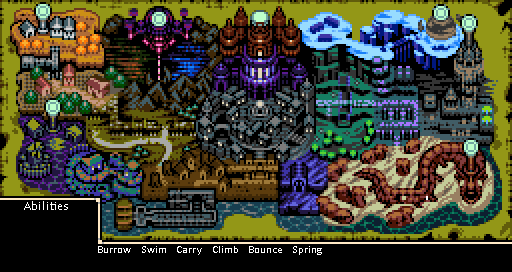
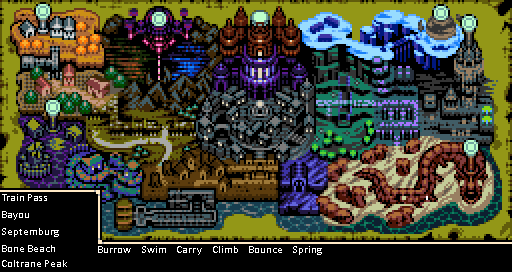
Fix typo Fix Bone Beach Maps Add Train Passes to overview fix some check not being excluded Fix logic issue with Evra and Trinket bazaar

Changed region(s): [[0.0, 0.6765, 0.2188, 1.0]]

diff --git a/worlds/mina_the_hollower/data/locations/areas/ossex.py b/worlds/mina_the_hollower/data/locations/areas/ossex.py
@@ -6,7 +6,7 @@ from ...items import Weapons, PlayerUpgrades, Sidearms, PermanentUpgrades, BoneU
         SingleKears, Wallets
 from ...items.abilities import ABILITY_NAMES
 from ...rules.ability_rules import CanBurrow, CanBounce, HasVialsCount, CanClimb, \
-        HasReachingSideArm, HasFishingRod, CanCarry, HasBeastiumTransform, HasTrinket, CanSwim
+        HasReachingSideArm, HasFishingRod, CanCarry, HasBeastiumTransform, HasTrinket, CanSwim, PowerLevelThreshold
 from ...rules.state_rules import HasAllKears, HasTrinketCount, HasKear, RepairedGeneratorCount, ShopPrice
 from ...rules.movement_rules import CanJumpTiles
 
@@ -18,7 +18,7 @@ collectable_locations: dict[str, LocationData] = {
         "OS Courtyard East Deboning Wand" : LocationData(161, "Ossex Courtyard East", ShopPrice(cost=1000), item_rule=lambda item: item.name != Wallets.WALLET_SIZE.value),
         "OS Courtyard West Weapon Upgrade" : LocationData(163, "Ossex Courtyard West Chest", HasVialsCount(count=5)),
         "OS Courtyard Garden Trinket" : LocationData(171, "Ossex Courtyard East Manor Side"),
-        "OS Evra's Rest Health Rose" : LocationData(352, "Ossex Goddred's Grave End"),
+        "OS Evra's Rest Health Rose" : LocationData(352, "Ossex Goddred's Grave End", PowerLevelThreshold(power=50)),
         "OS Couple's Quarter Chest" : LocationData(165, "Ossex Couple's Quarter", CanBurrow() | HasReachingSideArm(), item_rule=lambda item: item.name != Wallets.WALLET_SIZE.value),
 
         "OS Hollower's Guild Back Room Kear Chest" : LocationData(168, "Ossex Guild Back Room"),
@@ -82,11 +82,11 @@ collectable_locations: dict[str, LocationData] = {
         "OS Trinket Bazaar Plasma Funnel" : LocationData(179, "Ossex Trinket Bazaar", ShopPrice(cost=700)),
         "OS Trinket Bazaar Seismic Belt" : LocationData(180, "Ossex Trinket Bazaar", ShopPrice(cost=700)),
         "OS Trinket Bazaar Brisk Brew" : LocationData(181, "Ossex Trinket Bazaar", ShopPrice(cost=700)),
-        "OS Trinket Bazaar Intrevenous Vial" : LocationData(182, "Ossex Trinket Bazaar", ShopPrice(cost=1250)),
-        "OS Trinket Bazaar Shock Flint" : LocationData(183, "Ossex Trinket Bazaar", ShopPrice(cost=1250)),
-        "OS Trinket Bazaar Uranium Bracelet" : LocationData(25, "Ossex Trinket Bazaar", HasTrinketCount(count=15) & ShopPrice(cost=2000)),
-        "OS Trinket Bazaar Bubble Ring" : LocationData(184, "Ossex Trinket Bazaar", HasTrinketCount(count=15) & ShopPrice(cost=1500)),
-        "OS Trinket Bazaar Counter Vial" : LocationData(185, "Ossex Trinket Bazaar", HasTrinketCount(count=15) & ShopPrice(cost=1500)),
+        "OS Trinket Bazaar Intrevenous Vial" : LocationData(182, "Ossex Trinket Bazaar", ShopPrice(cost=1250) & HasTrinketCount(count=5)),
+        "OS Trinket Bazaar Shock Flint" : LocationData(183, "Ossex Trinket Bazaar", ShopPrice(cost=1250) & HasTrinketCount(count=5)),
+        "OS Trinket Bazaar Uranium Bracelet" : LocationData(25, "Ossex Trinket Bazaar", HasTrinketCount(count=10) & ShopPrice(cost=2000)),
+        "OS Trinket Bazaar Bubble Ring" : LocationData(184, "Ossex Trinket Bazaar", HasTrinketCount(count=10) & ShopPrice(cost=1500)),
+        "OS Trinket Bazaar Counter Vial" : LocationData(185, "Ossex Trinket Bazaar", HasTrinketCount(count=20) & ShopPrice(cost=1500)),
         "OS Train Private Cabin Chest" : LocationData(360, "Ossex Train Private Cabin Left", CanBurrow() & HasKear(kear=SingleKears.OSSEX_TRAIN_KEAR_1.value)), #needs burrow, 1 kear,
         "OS Train Private Cabin Safety Shroud" : LocationData(357, "Ossex Train Private Cabin Left", CanBurrow() & HasKear(kear=SingleKears.OSSEX_TRAIN_KEAR_1.value) & HasKear(kear=SingleKears.OSSEX_TRAIN_KEAR_2.value) ),
     # "OS Forgotten Cave Disturbing Dance" : LocationData(351, "Ossex City Center Main", CanBurrow() & CanBounce() & CanClimb()),

diff --git a/worlds/mina_the_hollower/locations.py b/worlds/mina_the_hollower/locations.py
@@ -1,7 +1,7 @@
 from BaseClasses import Region, Location, ItemClassification, LocationProgressType
 from rule_builder.rules import Has
 from .data.events import RADIANT_MANOR_DATA
-from .data.items import BoneFiller, Abilities
+from .data.items import BoneFiller, Abilities, PermanentUpgrades
 from .data.locations import all_regions, all_region_transitions, all_internal_region_connections, \
     all_permanent_locations, dungeon_locations
 from .data import LocationData, RegionConnection, Transition, matching_transition_types
@@ -71,6 +71,23 @@ def create_regions(world: "MinaTheHollowerWorld", regions: set[str]):
         create_location(world, "Climb", LocationData(None, "Climb Region", lambda _: False))
         create_location(world, "Bounce", LocationData(None, "Bounce Region", lambda _: False))
         create_location(world, "Spring", LocationData(None, "Spring Region", lambda _: False))
+
+        world.create_entrance(menu, create_region(world, "Train Pass Region"), name="Menu To Train Pass",
+                              rule=Has(PermanentUpgrades.TRAIN_PASS.value))
+        world.create_entrance(menu, create_region(world, "Bayou Ticket Region"), name="Menu To Bayou Ticket",
+                              rule=Has(PermanentUpgrades.BAYOU_TICKET.value))
+        world.create_entrance(menu, create_region(world, "Septemburg Ticket Region"), name="Menu To Septemburg Ticket",
+                              rule=Has(PermanentUpgrades.SEPTEMBURG_TICKET.value))
+        world.create_entrance(menu, create_region(world, "Bone Beach Ticket Region"), name="Menu To Bone Beach Ticket",
+                              rule=Has(PermanentUpgrades.BONE_BEACH_TICKET.value))
+        world.create_entrance(menu, create_region(world, "Coltrane Peak Ticket Region"), name="Menu To Coltrane Peak Ticket",
+                              rule=Has(PermanentUpgrades.COLTRANE_PEAK_TICKET.value))
+
+        create_location(world, "Train Pass", LocationData(None, "Train Pass Region", lambda _: False))
+        create_location(world, "Bayou Ticket", LocationData(None, "Bayou Ticket Region", lambda _: False))
+        create_location(world, "Septemburg Ticket", LocationData(None, "Septemburg Ticket Region", lambda _: False))
+        create_location(world, "Bone Beach Ticket", LocationData(None, "Bone Beach Ticket Region", lambda _: False))
+        create_location(world, "Coltrane Peak Ticket", LocationData(None, "Coltrane Peak Ticket Region", lambda _: False))
 
 
 

diff --git a/worlds/mina_the_hollower/tracker/__init__.py b/worlds/mina_the_hollower/tracker/__init__.py
@@ -94,6 +94,9 @@ cave_eastern_heath: dict[int, int] = {
     19: 0,
     20: 0
 }
+eh_chop: dict[int, int] = {
+    21:0,
+}
 under_eastern_heath: dict[int, int] = {
     23:0,
     18:0,
@@ -325,6 +328,7 @@ mourners_mile: dict[int, int] = {
 }
 mm_tomb: dict[int, int] = {
     13:0,
+    15:0,
 }
 mm_cave: dict[int, int] = {
     6:0,
@@ -551,6 +555,23 @@ bb_shortcut: dict[int, int] = {
     8:1,
     7:1
 }
+bb_trail_2: dict[int, int] = {
+    0:0,
+}
+bb_beach: dict[int, int] = {
+    1:0,
+}
+bb_ocean: dict[int, int] = {
+    1:0,
+    3:0,
+}
+bb_cliff: dict[int, int] = {
+    2:0,
+    20:4,
+}
+bb_gen: dict[int, int] = {
+    0:0
+}
 bb_trail: dict[int, int] = {
     16:0,
     5:0,
@@ -565,6 +586,9 @@ bb_trail: dict[int, int] = {
 }
 bb_tent: dict[int, int] = {
     19:0,
+}
+bb_mirror: dict[int, int] = {
+    13:0,
 }
 bb_cave: dict[int, int] = {
     10:0,
@@ -582,6 +606,7 @@ bb_back: dict[int, int] = {
 }
 
 bb_maw: dict[int, int] = {
+    0:0,
     29:0,
     5:0,
 }
@@ -854,6 +879,7 @@ area_id_to_map: dict[int, MapData] = {
     61: MapData(cave_network, 11),
     92: MapData(mining_passage, 12),
     54: MapData(eastern_heath, 13),
+    56: MapData(eh_chop, 16),
     53: MapData(under_eastern_heath, 16),
     52: MapData(cave_eastern_heath, 16),
     144: MapData(balcony, 17),
@@ -945,10 +971,16 @@ area_id_to_map: dict[int, MapData] = {
     39: MapData(sf_junction, 75),
     97: MapData(sf_mine, 76),
     37: MapData(bb_shortcut, 77),
-    24: MapData(bb_trail, 78),
+    24: MapData(bb_trail, 77),
+    40: MapData(bb_gen, 77),
+    25: MapData(bb_trail_2, 77),
+    26: MapData(bb_beach, 79),
+    27: MapData(bb_ocean, 80),
+    23: MapData(bb_cliff, 79),
     36: MapData(bb_back, 78),
     34: MapData(bb_tent, 81),
     28: MapData(bb_cave, 81),
+    38: MapData(bb_mirror, 81),
     29: MapData(bb_maw, 82),
     35: MapData(bb_arena, 82),
     30: MapData(bb_tract, 82),

diff --git a/worlds/mina_the_hollower/data/locations/areas/coltrane_peak.py b/worlds/mina_the_hollower/data/locations/areas/coltrane_peak.py
@@ -1,8 +1,10 @@
 from BaseClasses import LocationProgressType
 from rule_builder.rules import Has, CanReachLocation
 from ... import RegionConnection, Transition, LocationData
+from ...items import SingleKears, PermanentUpgrades
 from ...rules.ability_rules import CanBurrow, CanBounce, CanClimb, CanCarry, HasFishingRod
 from ...rules.movement_rules import CanJumpTiles
+from ...rules.state_rules import HasKear
 
 collectable_locations: dict[str, LocationData] = {
     "CTP Frigid Station Missed Train Chest": LocationData(113, "Coltrane Peak Station Tracks"),
@@ -21,6 +23,8 @@ collectable_locations: dict[str, LocationData] = {
     "CTP Maelstrom Locomotress Health Rose": LocationData(124, "Coltrane Peak Agnes Express Arena"),
     "CTP Frozen Pass Chest" : LocationData(232, "Coltrane Peak Frozen Pass"),
     "CTP Frozen Pass IceBlock Trinket" : LocationData(237, "Coltrane Peak Frozen Pass Bottom"),
+    "WW Balcony Snowball Fight Trinket" : LocationData(242, "Western Wilds Balcony", HasKear(kear=SingleKears.WESTERN_WILDS_BALCONY_KEAR.value) & CanBurrow() & CanCarry() & CanClimb()
+                                                           & Has(PermanentUpgrades.TRAIN_PASS.value) & Has(PermanentUpgrades.COLTRANE_PEAK_TICKET.value)),
 }
 
 

diff --git a/worlds/mina_the_hollower/data/locations/areas/queensbury_crypt.py b/worlds/mina_the_hollower/data/locations/areas/queensbury_crypt.py
@@ -26,9 +26,8 @@ collectable_locations: dict[str, LocationData] = {
     "QC Rancid Room Trinket": LocationData(59, "Queensbury Crypt Rancid Room"),
     "QC Ancestral Chamber Health Rose": LocationData(58, "Queensbury Crypt Ancestral Chamber"),
     "QC Royal Tomb Trinket": LocationData(60, "Queensbury Crypt Royal Tomb", HasVialsCount(count=2) & CanClimb()),
-    "EH Grassland Vertical Spinner Room Chest" : LocationData(238, "Eastern Heath East Corner", RepairedGenerator(event=QUEENSBURY_CRYPT_DATA) & HasKear(kear=SingleKears.MOURNERS_MILE_AFTER_GENERATOR_KEAR.value)),
-
-
+    "EH Carry Head QB Chest" : LocationData(238, "Eastern Heath East Corner", RepairedGenerator(event=QUEENSBURY_CRYPT_DATA) & HasKear(kear=SingleKears.MOURNERS_MILE_AFTER_GENERATOR_KEAR.value)),
+    "MM Knight's Stand Bonestone": LocationData(303, "Mourner's Mile Knight's Guard Hill"),
 }
 boss_locations: dict[str, LocationData] = {
     "QC Rancid Room Midden": LocationData(0, "Queensbury Crypt Rancid Room"),

diff --git a/worlds/mina_the_hollower/data/locations/areas/septemburg.py b/worlds/mina_the_hollower/data/locations/areas/septemburg.py
@@ -12,7 +12,7 @@ collectable_locations: dict[str, LocationData] = {
     "SB Launch Pad Secret Room #2 Kear": LocationData(89, "Septemburg Withered Farms Secret Springs", CanSpring()),
     "SB Kid Room Chest": LocationData(92, "Septemburg Withered Farms Kid Room 1", CanBurrow()),
     "SB Hidden Mandrake Room Chest": LocationData(93, "Septemburg Hidden Mandrake Room", CanJumpTiles(distance=2)),
-    "SB Hidden Crop Thresher Room Chest": LocationData(90, "Septemburg Tractor Chase", CanSpring() & CanBurrow()),
+    "SB Hidden Crop Thresher Room Chest": LocationData(90, "Septemburg Tractor Chase", CanSpring() & CanBurrow() & CanClimb()),
     "SB Rotten Barn Chest": LocationData(94, "Septemburg Rotten Barn Kid Room", CanBurrow()),
     "SB Below Crow Town Bridge Chest": LocationData(98, "Septemburg Crow Town Tunnel Top", HasKear(kear=SingleKears.SEPTEMBURG_CROW_TOWN_TUNNEL_KEAR.value)),
     "SB Crow Town Shop Trinket": LocationData(102, "Septemburg Crow Town"),

diff --git a/worlds/mina_the_hollower/data/locations/areas/western_wilds.py b/worlds/mina_the_hollower/data/locations/areas/western_wilds.py
@@ -21,8 +21,6 @@ collectable_locations: dict[str, LocationData] = {
     "WW Molten Foundry Trinket" : LocationData(249, "Western Wilds Molten Dungeon End"),
     "WW Fish Glomper Stalk" : LocationData(258, "Western Wilds Western Pond", HasFishingRod()),
     "WW Balcony Chest" : LocationData(254, "Western Wilds Balcony", HasKear(kear=SingleKears.WESTERN_WILDS_BALCONY_KEAR.value)),
-    "WW Balcony Snowball Fight Trinket" : LocationData(242, "Western Wilds Balcony", HasKear(kear=SingleKears.WESTERN_WILDS_BALCONY_KEAR.value) & CanBurrow() & CanCarry() & CanClimb()
-                                                       & Has(PermanentUpgrades.TRAIN_PASS.value) & Has(PermanentUpgrades.COLTRANE_PEAK_TICKET.value)),
 }
 
 boss_locations: dict[str, LocationData] = {

diff --git a/worlds/mina_the_hollower/options.py b/worlds/mina_the_hollower/options.py
@@ -12,15 +12,15 @@ class Goal(Choice):
     option_radiantManorGenerator = 0
     option_fixGenerators = 1
     # option_killBosses = 2
-    default = 0
+    default = 1
 
 class BoneUpCap(Choice):
     """
     How do you want your Bone Up Cap Items. A progressive each for attack, defense and Sidearms OR One progressive item for all
     """
     display_name = "Bone Up Cap Type"
-    option_perUpgrade = 0
-    option_allUpgrade = 1
+    option_perUpgrade = 1
+    option_allUpgrade = 0
     default = 0
 
 class NumberOfGenerators(Range):
@@ -30,7 +30,7 @@ class NumberOfGenerators(Range):
     display_name = "Generators Required"
     range_start = 1
     range_end = 6
-    default = 6
+    default = 3
 
 class NumberOfBosses(Range):
     """

diff --git a/worlds/mina_the_hollower/data/locations/areas/mourners_mile.py b/worlds/mina_the_hollower/data/locations/areas/mourners_mile.py
@@ -16,7 +16,6 @@ collectable_locations: dict[str, LocationData] = {
     "MM Spike Vault Hidden Room Kear": LocationData(310, "Mourner's Mile Spike Vault Hidden Room"),
     "MM Tower Tunnel Chest #1": LocationData(313, "Mourner's Mile Tower Tunnel Dark", CanBurrow()),
     "MM Tower Tunnel Chest #2": LocationData(314, "Mourner's Mile Tower Tunnel Dark", CanBurrow()),
-    "MM Knight's Stand Bonestone": LocationData(303, "Mourner's Mile Knight's Guard Hill"),
     "MM Mina's Grave Chest": LocationData(309, "Mourner's Mile Mina's Grave"),
     "MM Mina's Grave Trinket": LocationData(308, "Mourner's Mile Mina's Grave"),
     "MM Spike Hell Chest": LocationData(355, "Mourner's Mile Spike Hell Sandfall"),

diff --git a/worlds/mina_the_hollower/data/items/game_items.py b/worlds/mina_the_hollower/data/items/game_items.py
@@ -138,7 +138,7 @@ class Trinkets(ItemTypeEnum):
     PRIMED_VIAL_POUCH = ("Primed Vial Pouch", 154, ItemClassification.progression)
     FLAME_GUARD = ("Flame Guard", 155, ItemClassification.progression)
     SPARK_CATCHER = ("Spark Catcher", 156, ItemClassification.progression)
-    EVASION_POWER = ("Evasion Power", 157, ItemClassification.progression)
+    EVASION_POWDER = ("Evasion Powder", 157, ItemClassification.progression)
     VASCULAR_SYRUP = ("Vascular Syrup", 158, ItemClassification.progression)
     PIT_PRESERVER = ("Pit Preserver", 159, ItemClassification.progression)
     IRON_LUNG = ("Iron Lung", 160, ItemClassification.progression)

diff --git a/worlds/mina_the_hollower/data/items/__init__.py b/worlds/mina_the_hollower/data/items/__init__.py
@@ -137,7 +137,7 @@ trinket_powers: list[ItemPower] = [
     ItemPower(Trinkets.NITER_BELT, 1),
     ItemPower(Trinkets.JOULE_SYRINGE, 2),
     ItemPower(Trinkets.TUNNELING_CODEX, 1),
-    ItemPower(Trinkets.EVASION_POWER, 2),
+    ItemPower(Trinkets.EVASION_POWDER, 2),
     ItemPower(FilledJug.PLASMA_JUG, 2, PlayerUpgrades.HEALING_VIAL),
     ItemPower(Trinkets.VASCULAR_SYRUP, 1),
     ItemPower(Trinkets.TWILL_WEAVE, 1),
